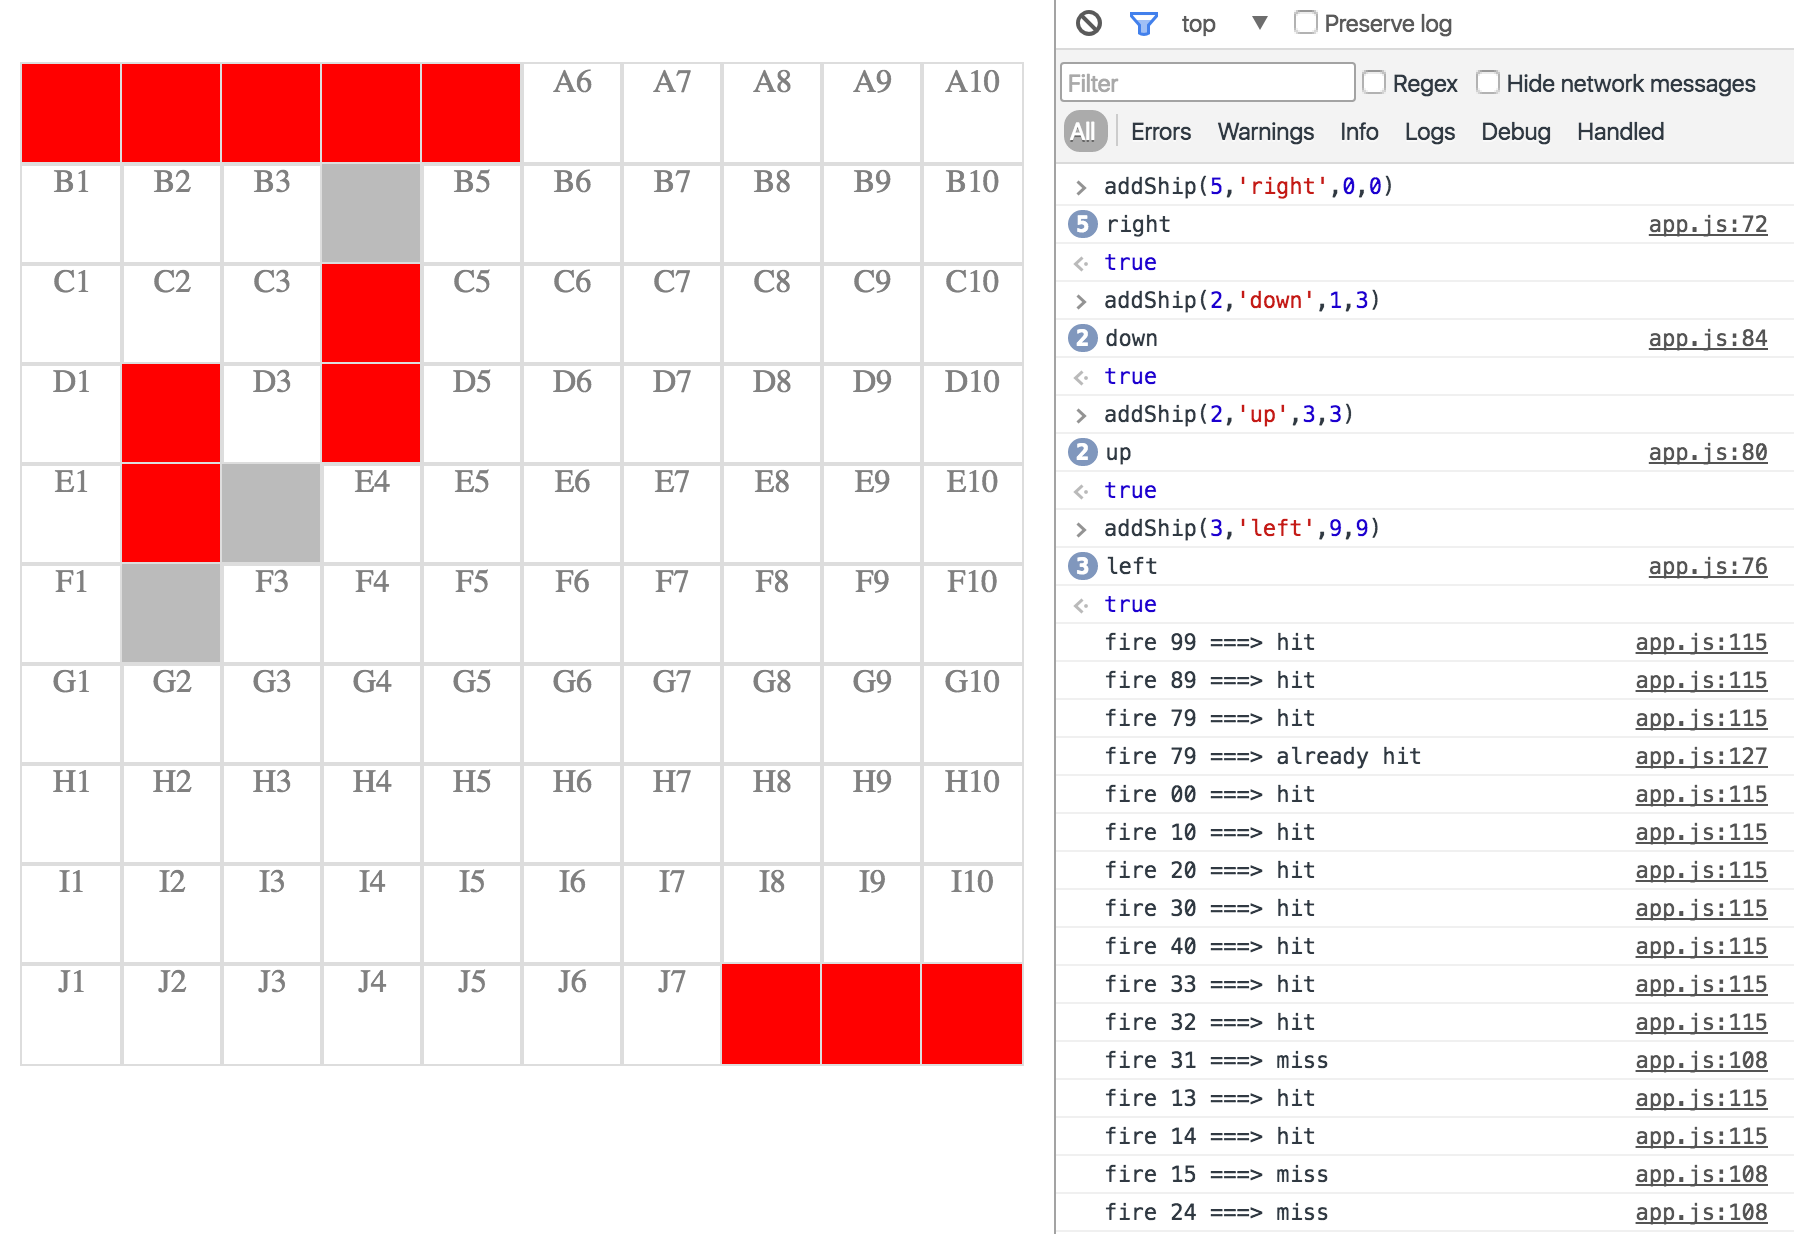
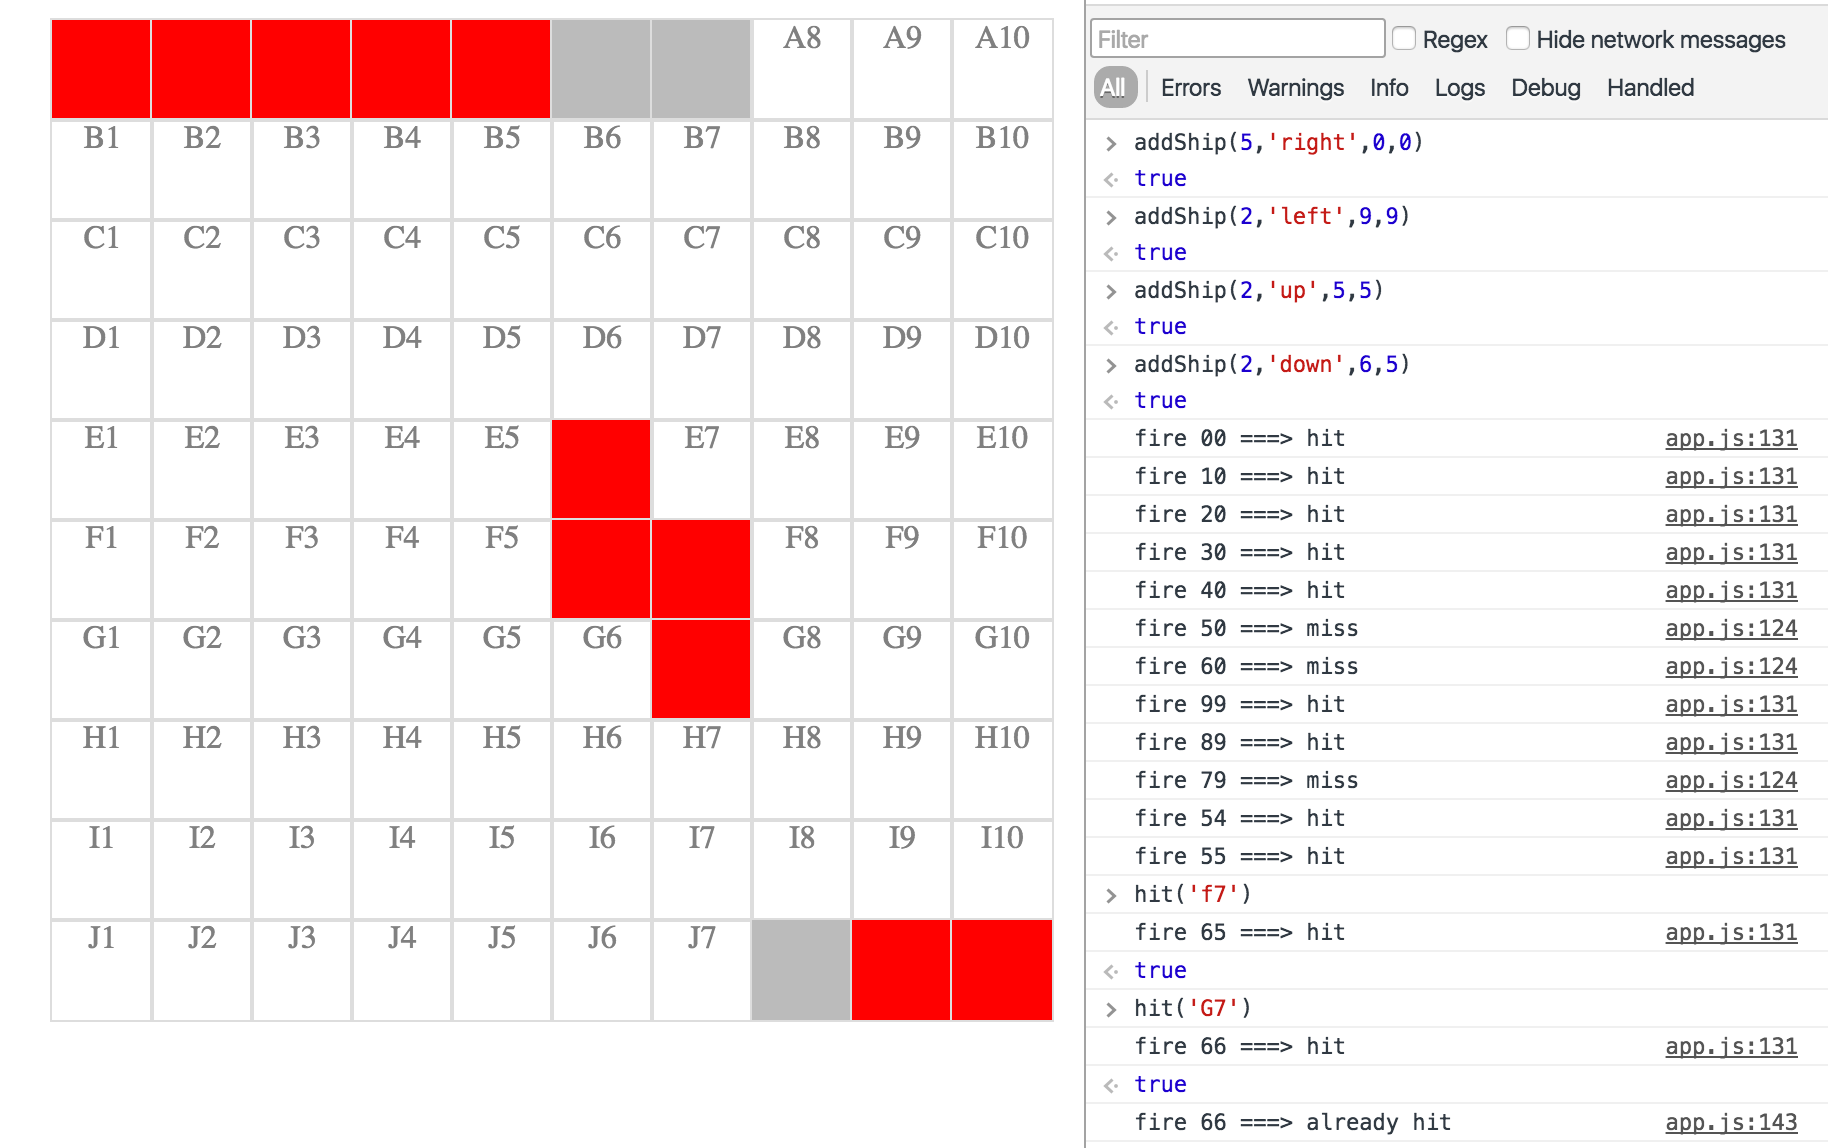
hit function added to handle A1, J10 calls etc.

diff --git a/app.js b/app.js
@@ -7,6 +7,9 @@ var shipsSquares = 17;
 // Carrier 5 hits | Battleship 4 hits | Destroyer 3 hits | Submarine 3 hits | Patrol Boat 2 hits
 // Total - 17 hits required to sunk all
 
+// an array of letters to add to Y coordinates and to each square of the grid
+const letters = ['A', 'B', 'C', 'D', 'E', 'F', 'G', 'H', 'I', 'J'];
+
 // counter to increment up to 17, sum of ship squares, all sunk
 var hitsCounter = 0;
 
@@ -35,9 +38,6 @@ function getUIGrid() {
 
   for (i = 0; i < yLength; i++) {
     for (j = 0; j < xLength; j++) {
-
-      // an array of letters to add to Y coordinates and to each square of the grid
-      var letters = ['A', 'B', 'C', 'D', 'E', 'F', 'G', 'H', 'I', 'J'];
 
       // create div for each box and set the size
       var square = document.createElement("div");
@@ -100,9 +100,12 @@ function addShip(length, orientation, xCoord, yCoord) {
 return true;
 }
 
-function hit(x,y) {
+function hit(xy) {
   // method to simulate click from the console instead of click on the grid, using current click event handler
-  document.getElementById('s' + y + x).click();
+  var x = xy.substring(0,1).toUpperCase();
+  var y = xy.substring(1,3) - 1;
+  x = letters.indexOf(x);
+  document.getElementById('s' + x + y).click();
   return true;
 }
 
